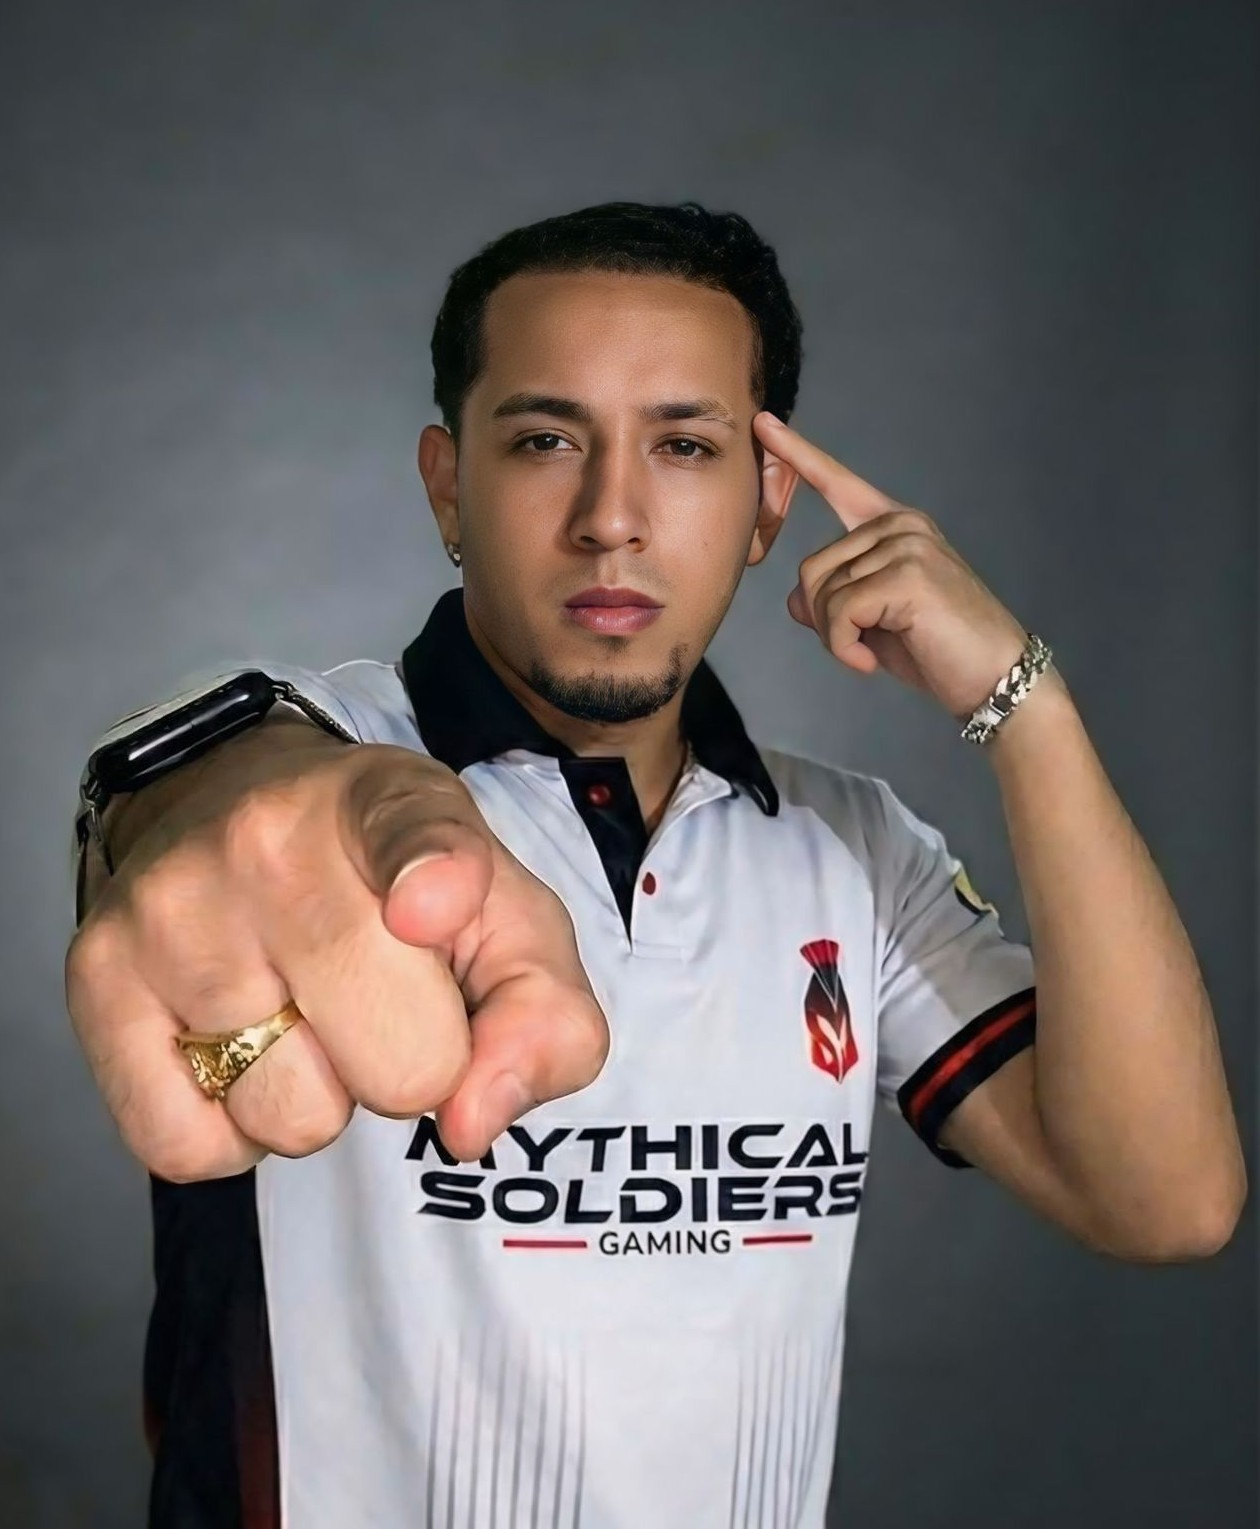
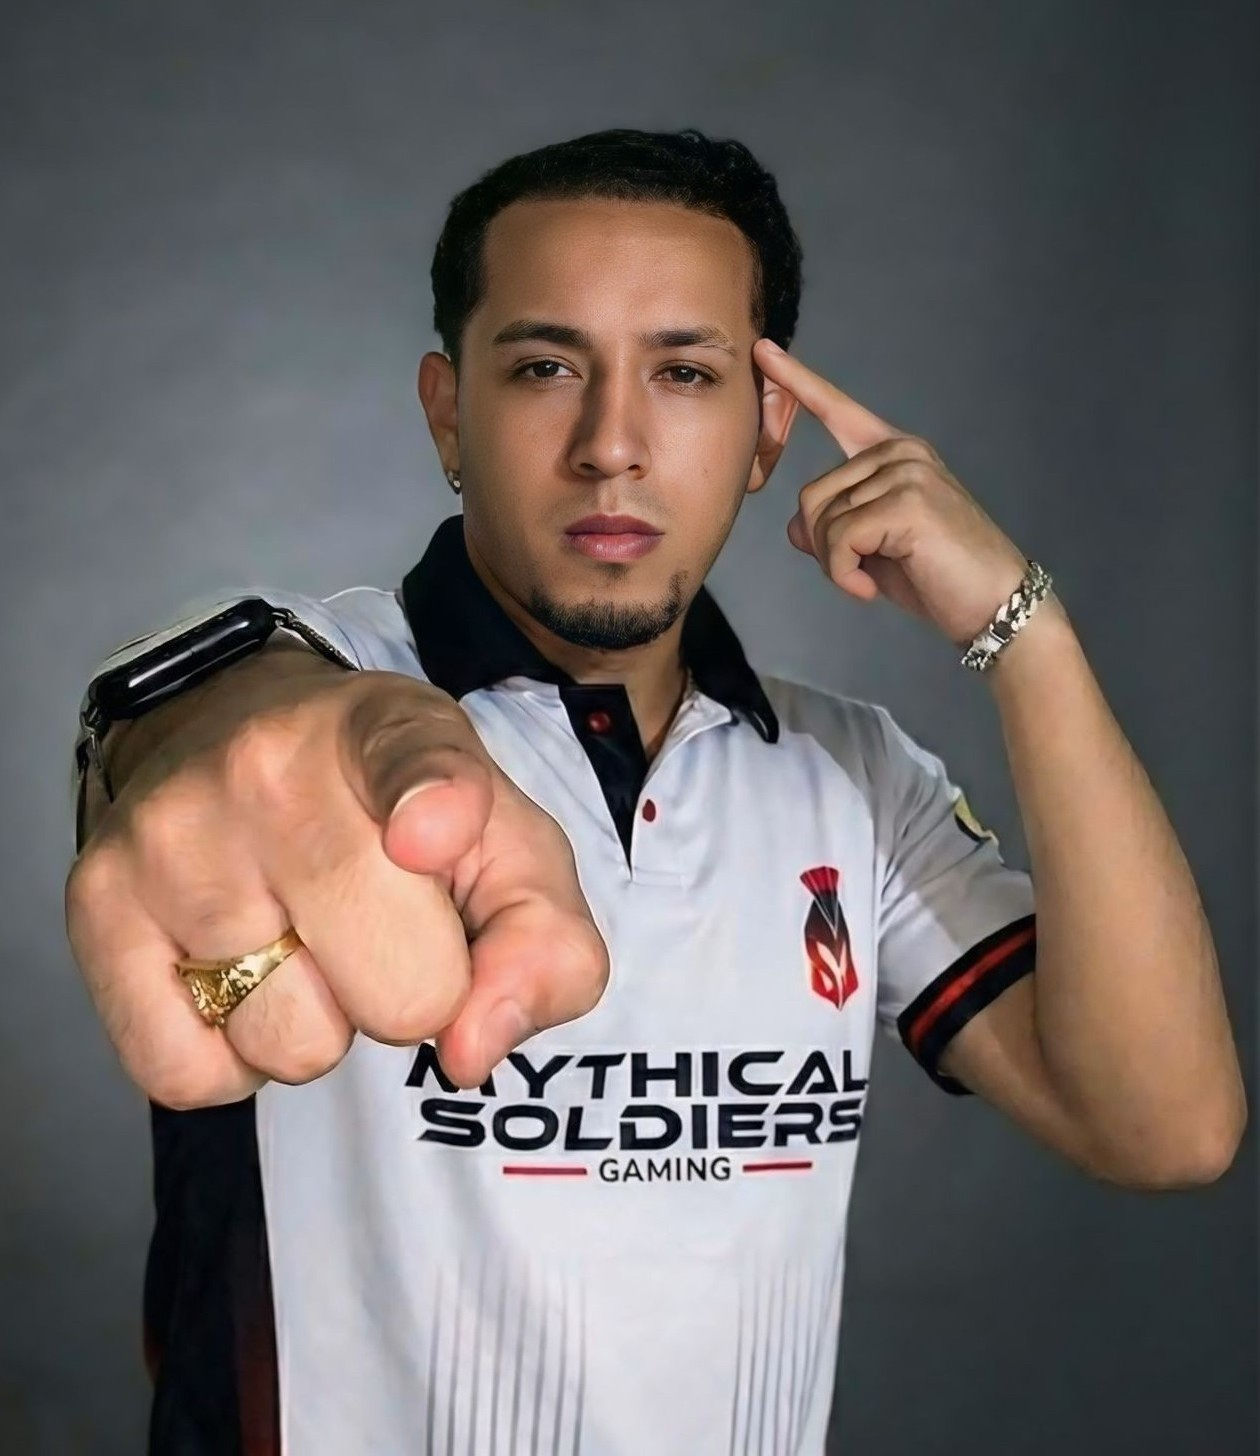
feat: Adjust photo Msg

diff --git a/index.html b/index.html
@@ -223,7 +223,7 @@
                     class="gallary-img"
                     src="assets/imgs/msgamers/gallary-4.png"
                     data-title="MSG - Andreik"
-                    data-desc="Caster — Mythical Soldiers"
+                    data-desc="Top — League of Legends"
                     data-logo="assets/imgs/logo-msg.png"
                     data-video="assets/videos/fondo.mp4"
                     data-flag="https://flagcdn.com/co.svg"
